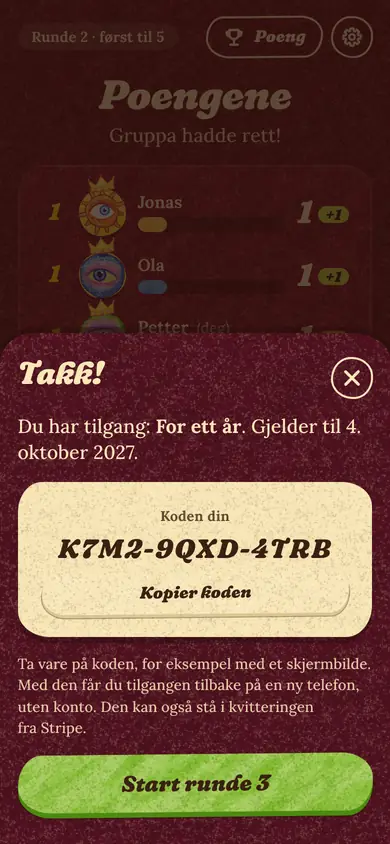
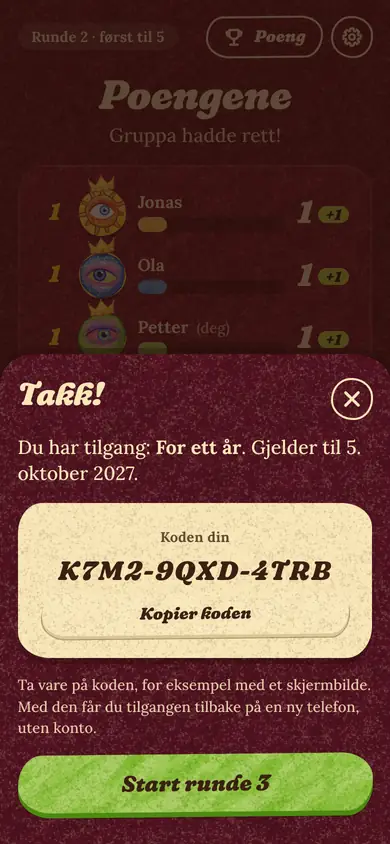
Toasten glir ned fra toppen av skjermen, og setningen om kvitteringen er fjernet
- Toasten ligger øverst på skjermen, midt på bredden, og glir ned ovenfra (ny animasjon, «drop»). Midtstillingen bruker automatiske
  marger og ikke transform, så en animasjon ikke kan overstyre den igjen. Den slipper fortsatt gjennom trykk.
- «Den kan også stå i kvitteringen fra Stripe.» er fjernet fra «Takk!»-arket og fra innloggingen: appen lover ikke lenger at koden står
  på kvitteringen. (Planen sier fortsatt at man kan se etter det, test 9.) Bildene av «Takk!» og «Logg inn» i stilguiden er tegnet på nytt.
- npm run qa:toast sjekker nå at toasten står hele øverst, midt på bredden, kommer ned ovenfra og slipper gjennom trykk, og har fire
  selvtester: den gamle sentreringen, en toast som stiger nedenfra, en midt på skjermen og en som tar imot trykk må alle nektes.

diff --git a/public/js/screens/pay.js b/public/js/screens/pay.js
@@ -181,7 +181,7 @@ export function LoginSheet() {
         ${error && html`<span class="field__error" id="pass-code-error" role="alert">${error}</span>`}
       </div>
       <${Button} block type="submit" disabled=${!valid || busy}>${busy ? 'Sjekker …' : 'Hent tilgangen'}</${Button}>
-      <p class="small muted">Koden gjelder uansett om du betalte med Vipps eller Apple Pay. Du fikk den da du betalte («Takk!»-siden), og den står under Vertsvalg › Min tilgang på telefonen du betalte med. Den kan også stå i kvitteringen fra Stripe.</p>
+      <p class="small muted">Koden gjelder uansett om du betalte med Vipps eller Apple Pay. Du fikk den da du betalte («Takk!»-siden), og den står under Vertsvalg › Min tilgang på telefonen du betalte med.</p>
       <p class="center"><${Button} variant="text" onClick=${() => setStore({ sheet: null, paywall: true })}>Har du ikke kjøpt ennå? Se pakkene</${Button}></p>
     </form>
   </${Sheet}>`;
@@ -213,7 +213,7 @@ export function ThanksSheet() {
     <div class="stack">
       <p class="lead">Du har tilgang${plan && html`: <strong>${plan.name}</strong>`}. ${s.pass && describeValidity(s.pass)}.</p>
       ${s.passCode && html`<${CodeCard} code=${s.passCode} />`}
-      <p class="small muted">Ta vare på koden, for eksempel med et skjermbilde. Med den får du tilgangen tilbake på en ny telefon, uten konto. Den kan også stå i kvitteringen fra Stripe.</p>
+      <p class="small muted">Ta vare på koden, for eksempel med et skjermbilde. Med den får du tilgangen tilbake på en ny telefon, uten konto.</p>
       ${away.length > 0 && html`<p class="small center" role="status">Venter på at ${joinNames(away)} kommer tilbake …</p>`}
       <${Button} block variant="lime" onClick=${go}>${next ? `Start runde ${view.round + 1}` : 'Fortsett spillet'}</${Button}>
     </div>

diff --git a/public/css/components.css b/public/css/components.css
@@ -496,14 +496,15 @@
 .sheet__close { flex: none; }
 
 /* ---- Toast & connection banner ------------------------------------------------ */
-/* The toast sits in the middle of the screen. It is centred with inset and auto margins, not with a transform: the `rise` animation
-   sets `transform` itself, and with fill-mode `both` its last keyframe replaces a `translateX(-50%)`, which once left every toast
-   starting at the middle of the screen and running off the right edge. */
+/* The toast sits at the top of the screen, in the middle of its width, and slides down into place. It is centred with auto margins,
+   not with a transform: the animation sets `transform` itself, and with fill-mode `both` its last keyframe replaces a
+   `translateX(-50%)`, which once left every toast starting at the middle of the screen and running off the right edge. */
 .toast {
   position: fixed;
-  inset: 0;
-  margin: auto;
-  height: fit-content;
+  top: max(0.8rem, env(safe-area-inset-top));
+  left: 0;
+  right: 0;
+  margin: 0 auto;
   z-index: 90;
   width: min(calc(100% - 2rem), 26rem);
   padding: 0.8rem 1.1rem;
@@ -514,7 +515,7 @@
   background: var(--tex-grain), var(--yellow);
   box-shadow: var(--shadow-2);
   pointer-events: none; /* (it is only a message: a tap goes through to what is under it) */
-  animation: rise 0.35s var(--ease-bounce) both;
+  animation: drop 0.4s var(--ease-bounce) both;
 }
 .banner {
   position: sticky;

diff --git a/public/design-system/ds.css b/public/design-system/ds.css
@@ -79,7 +79,7 @@ pre.ds-code { margin: 0; padding: 1rem 1.2rem; overflow-x: auto; border-radius: 
 .ds-sheet-preview .sheet { position: static; animation: none; width: 100%; max-height: none; border-radius: var(--r-card); box-shadow: var(--shadow-2); }
 .ds-sheet-preview .sheet-backdrop { position: static; animation: none; background: none; display: block; }
 .ds-banner-preview .banner { position: static; margin: 0; border-radius: var(--r-input); }
-.ds-toast-preview .toast { position: static; margin: 0; height: auto; animation: none; width: 100%; }
+.ds-toast-preview .toast { position: static; margin: 0; animation: none; width: 100%; }
 
 /* screens gallery */
 .ds-screens { display: grid; grid-template-columns: repeat(auto-fill, minmax(12.5rem, 1fr)); gap: 1.4rem 1rem; }

diff --git a/public/css/base.css b/public/css/base.css
@@ -188,6 +188,8 @@ button { touch-action: manipulation; }
 }
 @keyframes fade { from { opacity: 0; } to { opacity: 1; } }
 @keyframes slide-up { from { transform: translateY(100%); } to { transform: none; } }
+/* (from above the top edge of the screen: 100% is the element's own height, 4rem is more than the room above it) */
+@keyframes drop { from { transform: translateY(calc(-100% - 4rem)); opacity: 0; } to { transform: none; opacity: 1; } }
 @keyframes wobble {
   0%, 100% { transform: rotate(var(--tilt, 0deg)) scale(1, 1); }
   25% { transform: rotate(calc(var(--tilt, 0deg) + 2.2deg)) scale(1.025, 0.975); }

diff --git a/README.md b/README.md
@@ -107,7 +107,7 @@ npm run play:pay       # med betaling: pakkene etter runde 2, avbrutt og gjennom
 npm run play:pay-slow  # det samme, men verten er borte i 75 s mens han betaler: gjestene må vente på ham
 npm run shots          # skjermbilde av hver skjerm i mobilstørrelse -> tmp/shots/ (VIEWPORT=390x664 for en nettleser med verktøylinjer)
 npm run qa:fit         # får skjermene plass uten scrolling på de synlige skjermstørrelsene (390×664, 375×553 …)?
-npm run qa:toast       # toastene («Koden er kopiert») står hele og midt på skjermen på alle skjermstørrelser og slipper gjennom trykk (med egen selvtest)
+npm run qa:toast       # toastene («Koden er kopiert») står hele øverst på skjermen, midt på bredden, glir ned ovenfra og slipper gjennom trykk, på alle skjermstørrelser (med egen selvtest)
 npm run qa:overlap     # alle skjermer, også med ti spillere, de bredeste navnene og 125 % større tekst: ingen tekst oppå annen tekst eller skåret av, bunnlinjer ugjennomsiktige, bare linjer med en knapp frosset
 npm run pages:preview  # bygg og vis GitHub Pages-versjonen lokalt (http://localhost:8080)
 ```
